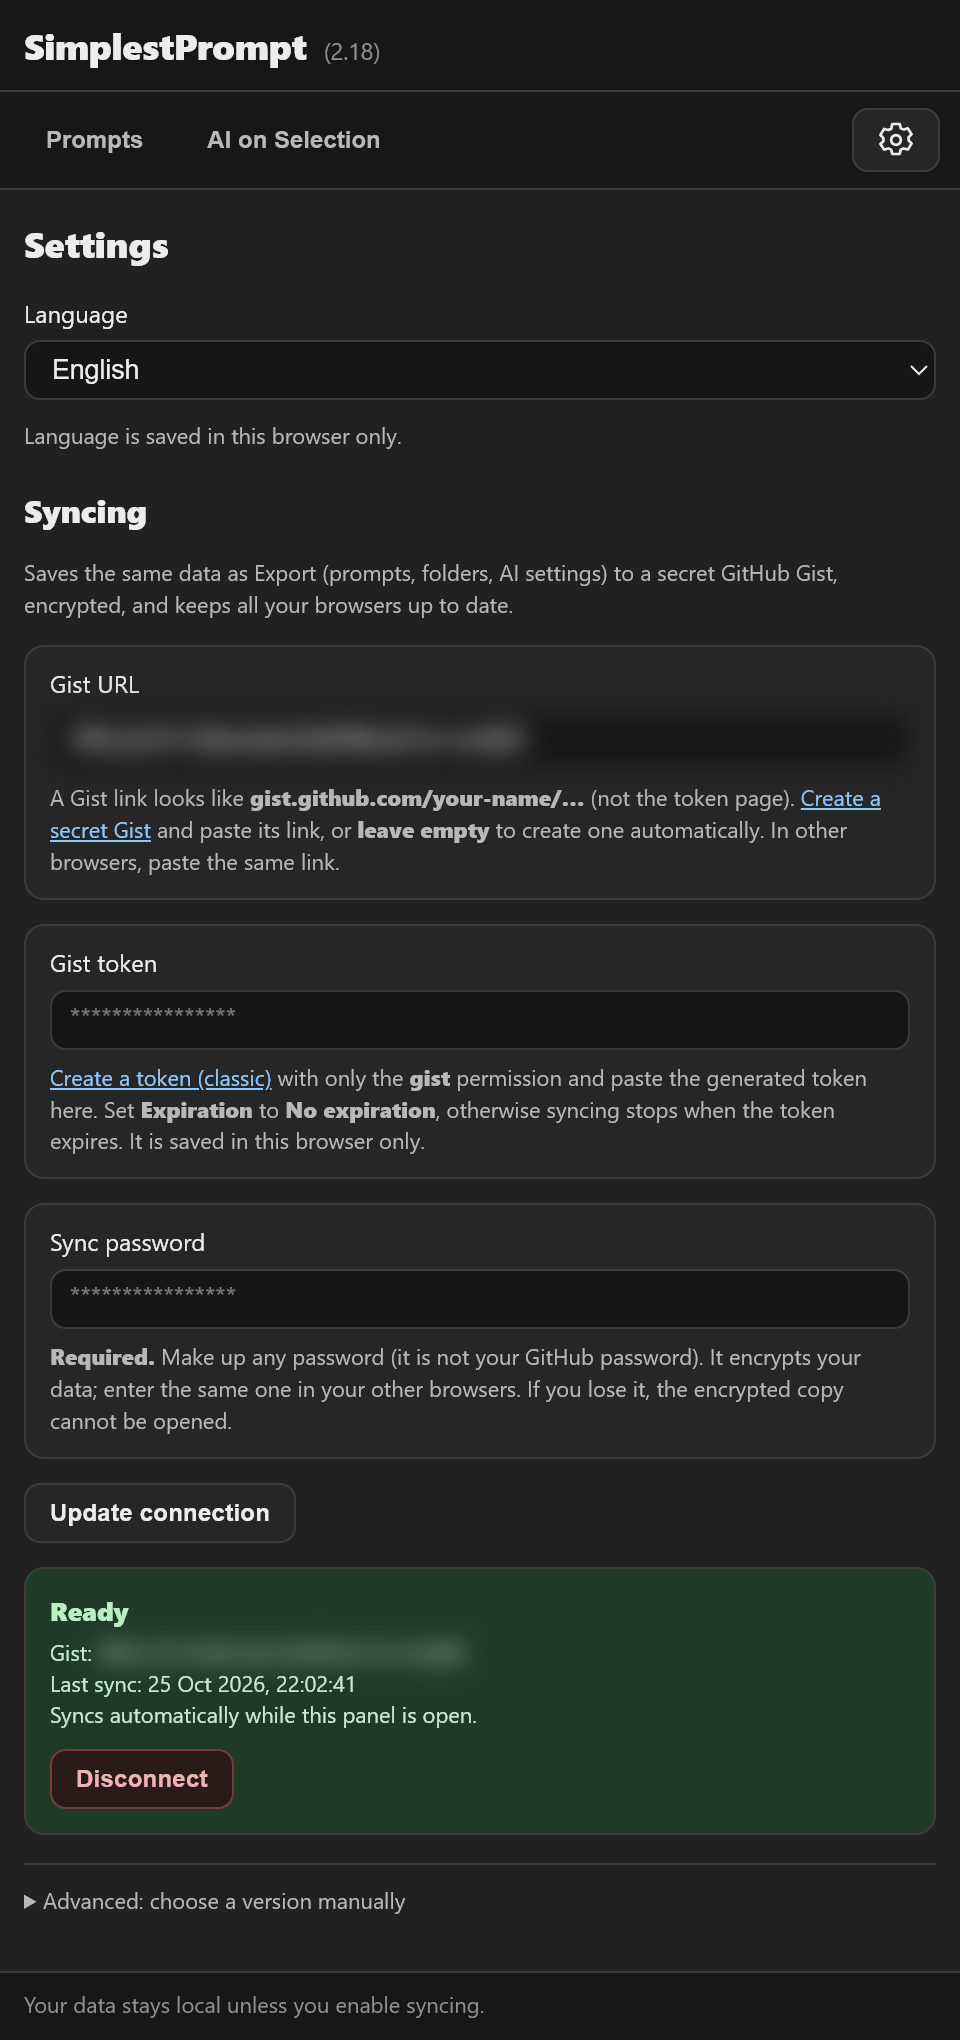
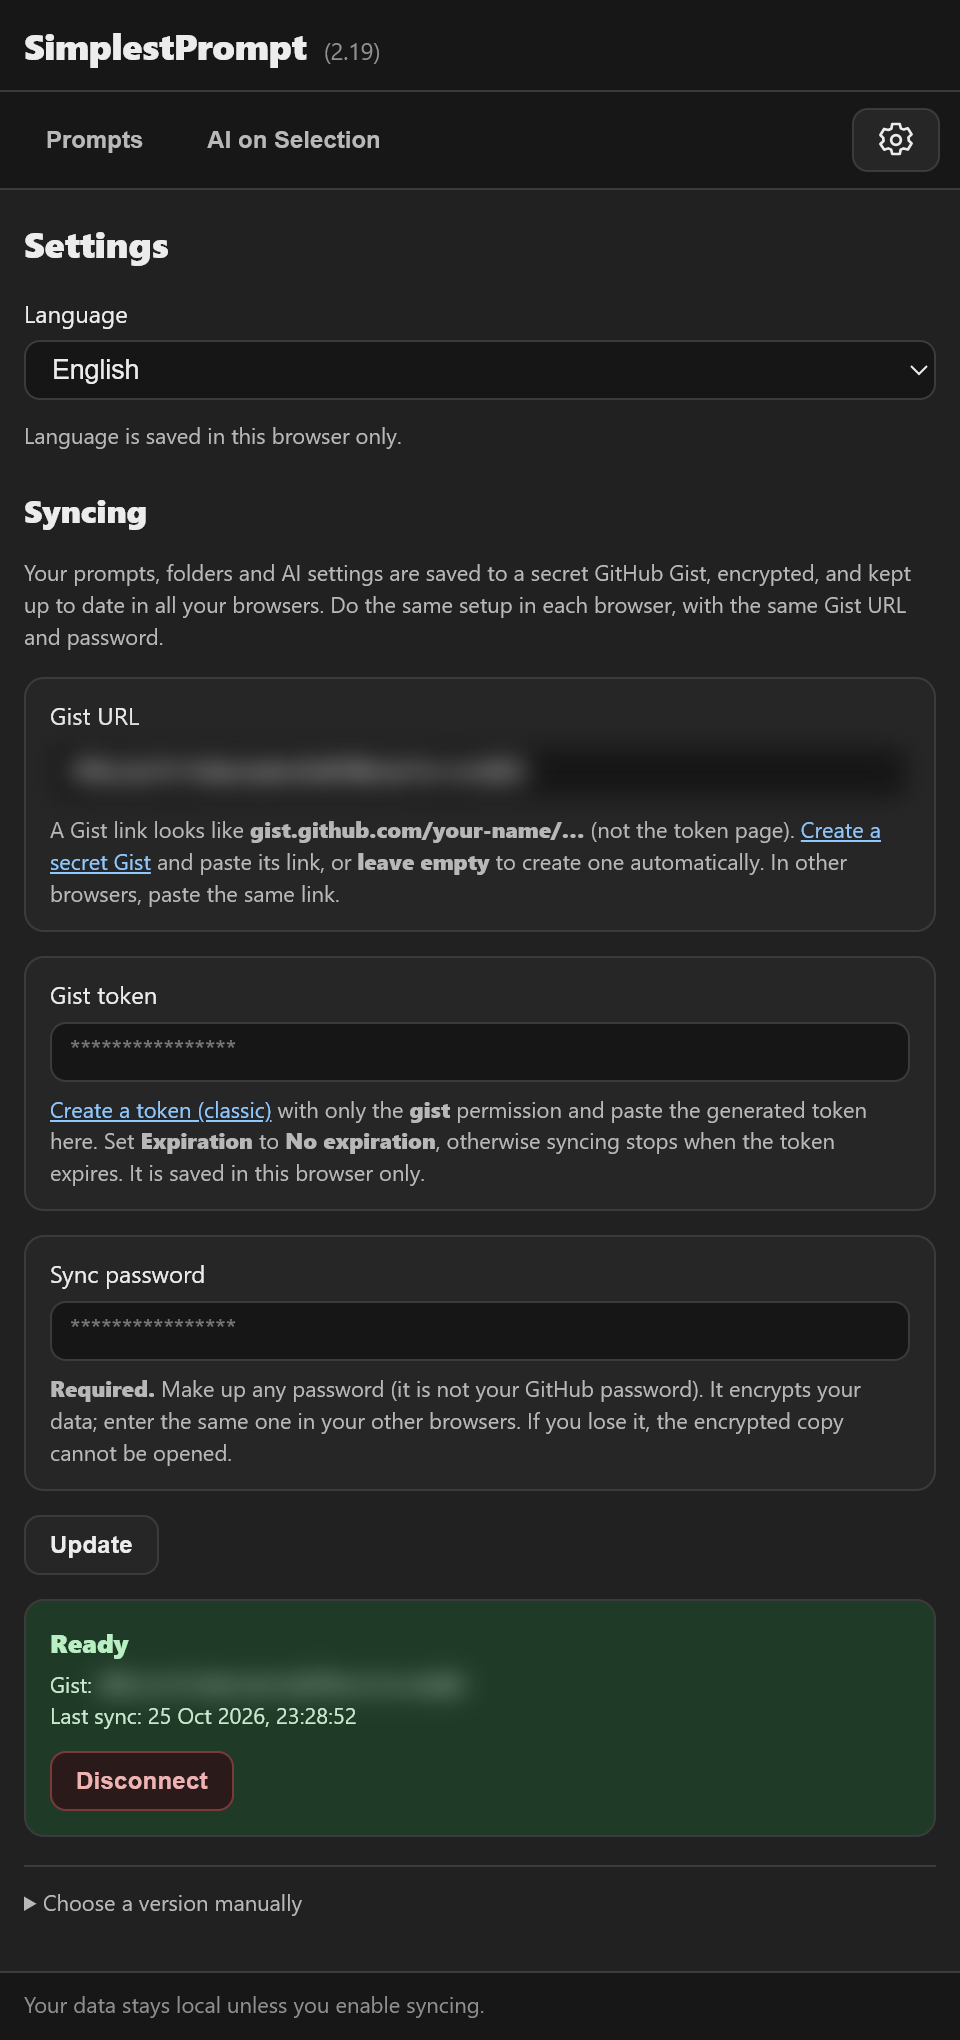
Update settings screenshot for 2.19

Changed region(s): [[0.0312, 0.4632, 0.9688, 0.9574], [0.0312, 0.2779, 0.9375, 0.4632]]

diff --git a/README.md b/README.md
@@ -35,7 +35,7 @@ Good for quick translations, rewriting posts, summarizing articles, analyzing co
   <img src="assets/screenshot-4.png" width="380" alt="Right-click menu: AI on Selection with prompts and AI targets">
 </p>
 <p align="center">
-  <img src="assets/screenshot-5.png?v=2" width="380" alt="Settings: language and automatic encrypted sync through a GitHub Gist">
+  <img src="assets/screenshot-5.png?v=3" width="380" alt="Settings: language and automatic encrypted sync through a GitHub Gist">
 </p>
 
 ## Contents
